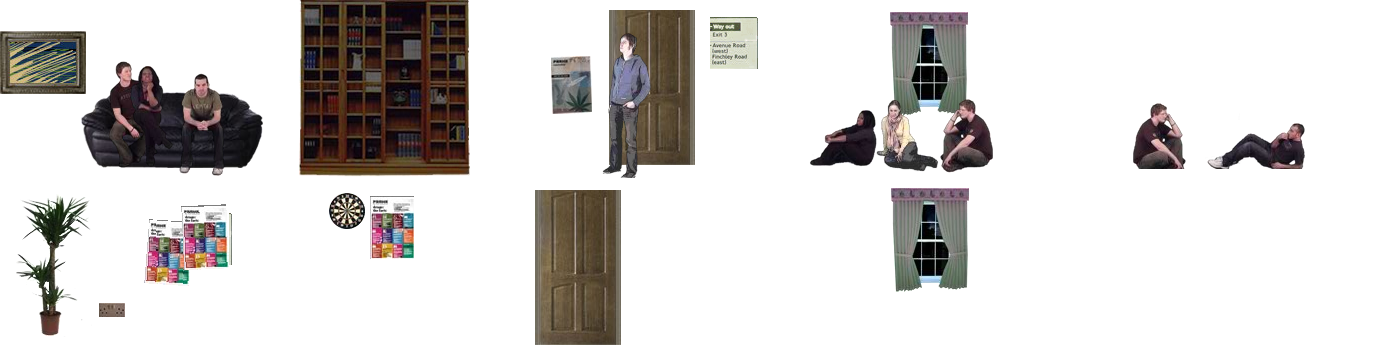
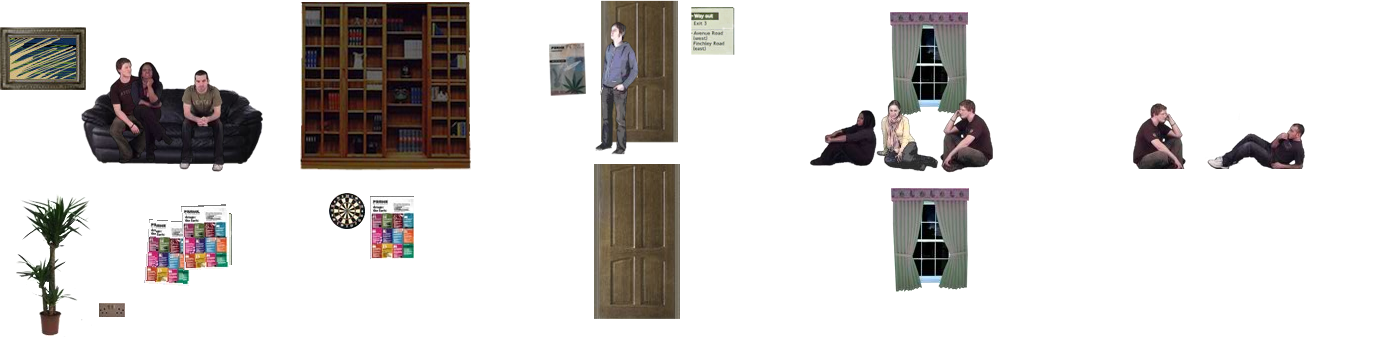
updates

Changed region(s): [[0.3726, 0.0, 0.5588, 1.0], [0.2173, 0.0, 0.3415, 0.5202], [0.0, 0.0578, 0.1863, 0.5202]]

diff --git a/js/GameScene.js b/js/GameScene.js
@@ -47,7 +47,6 @@ export class GameScene extends Phaser.Scene {
     this.level = data.level ?? 1;
     this.score = data.score ?? 0;
     this.lives = data.lives ?? 3;
-    this.maxLevels = data.maxLevels ?? 3;
     this.skipIntro = data.skipIntro;
     this.levelComplete = false;
     this.levelFailed = false;
@@ -166,16 +165,15 @@ export class GameScene extends Phaser.Scene {
     this.waters = this.physics.add.group();
     this.w = this.game.config.width;
     this.h = this.game.config.height;
-
+    this.shadowLayer = this.add.layer().setDepth(1);
     if (this.level < 4) {
       this.setupLevel();
     }
     else {
-      this.scene.start("HubScene", {
-        level: this.level + 1,
+      this.scene.start("LevelIntroScene", {
+        level: this.level,
         score: this.score,
         lives: this.lives,
-        gameOver: true,
       });
     }
 
@@ -416,7 +414,50 @@ export class GameScene extends Phaser.Scene {
       }
     });
   }
+  createShadow(target, width = 40, height = 14, alpha = 0.25) {
+    const shadow = this.add.ellipse(
+      target.x,
+      target.y + 4,
+      width,
+      height,
+      0x000000,
+      alpha
+    );
 
+    shadow.setDepth(target.depth - 1);
+
+    shadow.target = target;
+    shadow.baseWidth = width;
+    shadow.baseHeight = height;
+    shadow.baseAlpha = alpha;
+
+    this.shadowLayer.add(shadow);
+
+    return shadow;
+  }
+
+  updateShadow(shadow) {
+    if (!shadow || !shadow.target || !shadow.target.active) {
+      shadow?.destroy();
+      return;
+    }
+
+    const target = shadow.target;
+
+    shadow.x = target.x;
+    shadow.y = target.y - 6;
+
+    // perspective scaling
+    const scale = Math.max(0.4, target.scaleY);
+
+    shadow.width = shadow.baseWidth * scale;
+    shadow.height = shadow.baseHeight * scale;
+
+    // farther away = fainter
+    shadow.alpha = shadow.baseAlpha * scale;
+
+    shadow.setDepth(target.depth - 1);
+  }
   getExitWallMidpoint() {
     const topMidX = Phaser.Math.Linear(this.exitWall.leftX, this.exitWall.rightX, 0.5);
     const topMidY = Phaser.Math.Linear(this.exitWall.topLeftY, this.exitWall.topRightY, 0.5);
@@ -484,24 +525,17 @@ export class GameScene extends Phaser.Scene {
 
     this.levelFailed = true;
     this.startGame = false;
-    this.lives -= 1;
     this.puker.setVisible(false);
     this.puker_puking.setPosition(this.puker.x, this.puker.y);
     this.puker_puking.setVisible(true);
     this.puker_puking.anims.play('puker_puking', true);
     this.puker_puking.once("animationcomplete", () => {
-      if (this.lives == 1) {
-
-      }
-      else {
-        this.lives--;
-        this.scene.start("HubScene", {
-          level: this.level,
-          score: this.score,
-          lives: this.lives,
-          gameOver: this.level > 2,
-        });
-      }
+      this.lives--;
+      this.scene.start("LevelIntroScene", {
+        level: this.level,
+        score: this.score,
+        lives: this.lives,
+      });
     });
   }
 
@@ -863,6 +897,19 @@ export class GameScene extends Phaser.Scene {
     });
   }
 
+  getGroundScrollSpeed(sprite) {
+    const t = Phaser.Math.Clamp(
+      (sprite.y - PUKER_MIN_Y) / (PUKER_MAX_Y - PUKER_MIN_Y),
+      0,
+      1
+    );
+
+    // far/top = slower, near/bottom = faster
+    const perspectiveSpeed = Phaser.Math.Linear(0.95, 2.15, t);
+
+    return this.pukerSpeed * perspectiveSpeed;
+  }
+
   changePukerState(state, anim) {
     let previousY = Phaser.Math.Clamp(this.h * 0.7, PUKER_MIN_Y, PUKER_MAX_Y);
     let previousX = this.w * 0.3;
@@ -873,7 +920,6 @@ export class GameScene extends Phaser.Scene {
       this.puker.anims?.stop();
       this.puker.visible = false;
     }
-
     const nextPuker = this.pukerStates.getChildren()[state];
     if (!nextPuker) return;
 
@@ -888,6 +934,9 @@ export class GameScene extends Phaser.Scene {
     this.setShading(this.puker);
     this.setPerspective(this.puker);
     this.updatePukerDepth();
+    if (!this.puker.shadow) {
+      this.puker.shadow = this.createShadow(this.puker, this.puker.width, 18, 0.32);
+    }
 
     if (
       this.puker.anims.currentAnim &&
@@ -919,9 +968,8 @@ export class GameScene extends Phaser.Scene {
 
     this.setShading(newPerson);
     this.setPerspective(newPerson);
-
+    newPerson.shadow = this.createShadow(newPerson, newPerson.width, 12, 0.18);
     this.people.add(newPerson);
-
     this.peopleTimer = 0;
     this.peopleTimerMax = Phaser.Math.Between(this.timeMin, this.timeMax);
   }
@@ -934,7 +982,8 @@ export class GameScene extends Phaser.Scene {
     else this.wall2.x = 1000;
 
     if (!this.pukerPause) {
-      this.floor.uvScroll(0.0008, 0);
+      const scrollSpeed = 0.00095 * this.pukerSpeed;
+      this.floor.uvScroll(scrollSpeed, 0);
     }
   }
 
@@ -946,19 +995,19 @@ export class GameScene extends Phaser.Scene {
 
     this.obstacles.getChildren().forEach((element) => {
       element.setDepth(element.y + (element.isWobbling ? 1 : 0));
-      element.x -= this.pukerSpeed;
+      element.x -= this.getGroundScrollSpeed(element);
       if (element.x < 0) element.destroy();
     });
 
     this.waters.getChildren().forEach((element) => {
       element.setDepth(element.y);
-      element.x -= this.pukerSpeed;
+      element.x -= this.getGroundScrollSpeed(element);
       if (element.x < 0) element.destroy();
     });
 
     this.people.getChildren().forEach((element) => {
       element.setDepth(element.y);
-      element.x -= this.pukerSpeed;
+      element.x -= this.getGroundScrollSpeed(element);
       if (element.x < 0) element.destroy();
     });
 
@@ -1070,6 +1119,7 @@ export class GameScene extends Phaser.Scene {
 
     newWalker.setScale(-1, .8);
     newWalker.anims.play(WALKER_SPRITES[walkerIndex].name);
+    newWalker.shadow = this.createShadow(newWalker, newWalker.width, 12, 0.18);
 
     this.walkers.add(newWalker);
     this.walkersTimer = 0;
@@ -1085,7 +1135,7 @@ export class GameScene extends Phaser.Scene {
       .setDepth(obstacleY);
     const frame = Phaser.Math.Between(0, image.texture.getFrameNames().length - 1);
     image.setFrame(frame);
-
+    image.shadow = this.createShadow(image, image.width, 16, 0.22);
     this.setShading(image);
     this.setPerspective(image);
     const keysArray = Object.keys(OBSTACLE_TYPE);
@@ -1109,7 +1159,7 @@ export class GameScene extends Phaser.Scene {
       .sprite(this.w + OBJECT_START_X_OFFSET, obstacleY, "water")
       .setOrigin(0.5, 1)
       .setDepth(obstacleY);
-
+    image.shadow = this.createShadow(image, image.width, 10, 0.12);
     this.setShading(image);
     this.setPerspective(image);
     image.hit = false;
@@ -1168,6 +1218,18 @@ export class GameScene extends Phaser.Scene {
       this.failLevel();
       return;
     }
+
+    [
+      ...this.obstacles.getChildren(),
+      ...this.people.getChildren(),
+      ...this.waters.getChildren(),
+      ...this.walkers.getChildren(),
+      ...this.pukerStates.getChildren()
+    ].forEach(obj => {
+      if (obj.shadow) {
+        this.updateShadow(obj.shadow);
+      }
+    });
 
     this.updatePukerDepth();
 

diff --git a/js/LevelIntroScene.js b/js/LevelIntroScene.js
@@ -52,14 +52,16 @@ export class LevelIntroScene extends Phaser.Scene {
             .setScale(.3)
             .setInteractive();
 
-        console.log(this.level);
+        this.spaceKey = this.input.keyboard.addKey(
+            Phaser.Input.Keyboard.KeyCodes.SPACE
+        );
 
-        if (this.level > this.maxLevels) {
+        if (this.level > 3 || this.lives === 0) {
             this.gameOver.setVisible(true);
             this.gameOverTitle.setVisible(true);
             this.time.delayedCall(5000, () => {
                 this.gameOverTitle.destroy();
-                this.finalScoreText = this.add.text(200, 130, this.score, {
+                this.finalScoreText = this.add.text(200, 130, this.score.toLocaleString(), {
                     fontFamily: "Arial",
                     fontSize: "40px",
                     fontWeight: "bold",
@@ -69,26 +71,22 @@ export class LevelIntroScene extends Phaser.Scene {
         }
         else {
             this.levelIntros[this.level - 1].setVisible(true);
-            this.spaceKey = this.input.keyboard.addKey(
-                Phaser.Input.Keyboard.KeyCodes.SPACE
-            );
+
             this.input.on('pointerdown', (pointer) => {
                 this.scene.start("GameScene", {
                     level: this.level,
                     score: this.score,
                     lives: this.lives,
-                    maxLevels: this.maxLevels
                 });
             })
         }
     }
     update() {
-        if (this.spaceKey.isDown) {
+        if (this.spaceKey.isDown && this.level < 4) {
             this.scene.start("GameScene", {
                 level: this.level,
                 score: this.score,
                 lives: this.lives,
-                maxLevels: this.maxLevels
             });
         }
     }

diff --git a/js/HubScene.js b/js/HubScene.js
@@ -16,7 +16,6 @@ export class HubScene extends Phaser.Scene {
         this.level = data.level ?? 1;
         this.score = data.score ?? 0;
         this.lives = data.lives ?? 3;
-        this.gameOver = data.gameOver;
         this.gameState = GAME_STATE.INTRO;
     }
 
@@ -50,11 +49,7 @@ export class HubScene extends Phaser.Scene {
             this.game.config.height * 0.94,
             "maxxdaddy"
         );
-        this.gameOver = this.add.image(
-            this.game.config.width,
-            this.game.config.height,
-            "game_over"
-        ).setVisible(false);
+
 
         this.splash.on("pointerdown", (pointer) => {
             this.SetSplashState(pointer);
@@ -84,7 +79,6 @@ export class HubScene extends Phaser.Scene {
                 level: this.level,
                 score: this.score,
                 lives: this.lives,
-                maxLevels: this.maxLevels
             });
         }
         else if (
